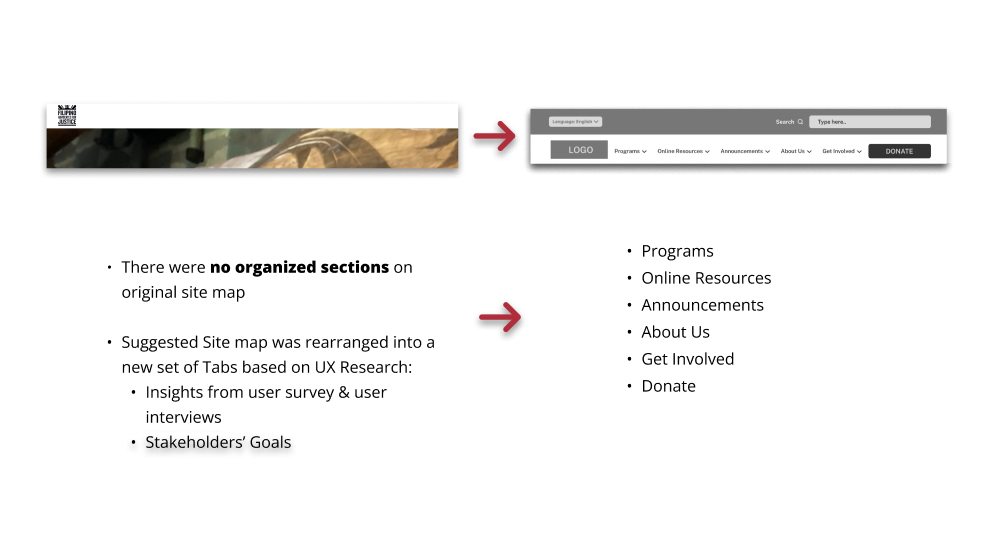
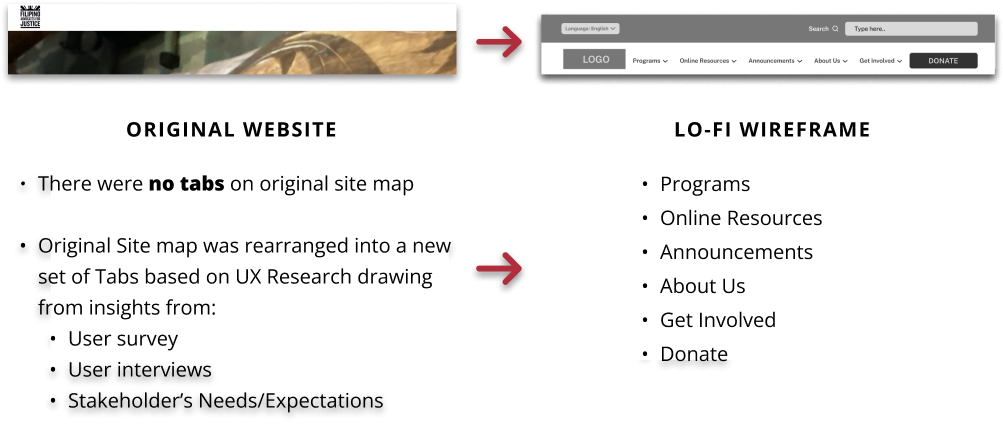
updated 1st case study

diff --git a/faj-case-study.html b/faj-case-study.html
@@ -250,31 +250,62 @@
 </section>
 
 <section class="my-6 content">
-  <h3 class="has-text-weight-bold is-size-2 has-text-black-bis">Usability Testing</h3>
-  <h4 class="has-text-weight-bold my-4">2 rounds of Usability Testing (5 participants each) to validate the User Flow of Users finding Mental Health Resources on FAJ’s Website</h4>
-<p>*Conducted by the UX Program Design Team (Panda Ninjas)</p>
+  <h3 class="has-text-weight-bold is-size-2 has-text-black-bis">Site Map Revisited</h3>
+  <p class="my-4">After recruiting new UX Designers, we picked up from where the 1st Design Team last left off in the Summer of 2023.
+    <br><br>Before revisiting the wireframes, we had to have a discussion with stakeholders to confirm the Site Map</p>
+<p class="has-text-weight-bold">Turns out, not everyone in the organization knew which programs were still active and functioning. Further investigation with staff members led to the new, approved Site Map</p>
 
 
-  <img src="./assets/media/faj-cs/Usability Testing 1.png" style="display:block;margin:0 auto;width:100%;" alt="Site Map Slide">
-  <p><strong>Results:</strong> Both users of FAJ’s website & stakeholder were satisfied with the new layout and UI Style Guide of the High-Fidelity Prototype. Wordpress Implementation and website launch was scheduled in June 2023.</p>
+  <img src="./assets/media/faj-cs/Updated & Approved Site Map.png" style="display:block;margin:0 auto;width:100%;" alt="Upgraded Site Map Slide">
 
 </section>
 
 <section class="my-6 content">
-  <h3 class="has-text-weight-bold is-size-2 has-text-black-bis">Usability Testing Revisited</h3>
-  <h4 class="has-text-weight-bold my-4">After recruiting new UX Designers, we picked up from where the 1st Design Team last left off in the Summer of 2023.</h4>
+  <h3 class="has-text-weight-bold is-size-2 has-text-black-bis">New UI Style Guide based on the Philippine National Flower:
+    The Sampaguita</h3>
+  <h4 class="my-4">The UI/Visual Designer of our team came up with the new color palette of the website. <br><br>These colors felt closer to FAJ’s current pivot towards themes of Mental Health and Meditation while still keeping true to our culture.</h4>
 
 
 
-  <img src="./assets/media/faj-cs/Usability Testing 2.png" style="display:block;margin:0 auto;width:100%;" alt="Site Map Slide">
-  <p><strong>Results:</strong> Both users of FAJ’s website & stakeholder were satisfied with the new layout and UI Style Guide of the High-Fidelity Prototype. Wordpress Implementation and website launch was scheduled in June 2023.</p>
+  <img src="./assets/media/faj-cs/Sampaguita UI Color Palette.png" style="display:block;margin:0 auto;width:100%;" alt="Sampaguita UI Color Palette">
 
 </section>
+
+<section class="my-6 content">
+  <h2 class="has-text-weight-bold is-size-2 has-text-black-bis">Validating Revamped Designs with Usability Testing, Once Again</h2>
+  <div class="columns">
+  
+      <div class="column">
+        <p class="my-4">We had to validate the new user flows by conducting: 
+        </p>  
+
+        <ul>
+          <li>1 round of Usability Testing, 5 participants each</li>
+          <li>All ranging from different needs from interest in Youth programs, Tenant Rights Resources, to Immigration Resources) to gauge the ease of use of the Iterated site map & wireframes.</li>
+        </ul>
+          
+          <p>*Conducted by the 2nd Design Team</p>
+
+
+        
+        </div>
+  
+  
+  
+        <div class="column">
+          <img src="./assets/media/faj-cs/FAJ Hi-Fi Prototype.gif" style="display:block;margin:0 auto;width:100%;" alt="FAJ Hi-FI Prototype GIF">
+        </div>
+        
+      </div>
+      <h4 class="has-text-weight-bold mt-6">Results</h4>
+<p>Both users of FAJ’s website & stakeholder were satisfied with the new site map layout and UI Style Guide of the High-Fidelity Prototype. Wordpress Implementation and website launch was scheduled in June 2023.</p>
+  
+    </section>
 
 <section class="my-6 content">
   <h2 class="has-text-weight-bold is-size-2 has-text-black-bis">High-Fidelity Wireframes</h2>
   <div class="columns">
-  
+
       <div class="column mt-6">
             <h4 class="has-text-weight-bold mb-4">My wireframe contributions were:</h4>
             <ul>
@@ -288,7 +319,6 @@
         </div>
   
   
-  
         <div class="column">
           <img src="./assets/media/faj-cs/FAJ Hi-Fi Wireframes.png" alt="User Interviewee Quote">
         </div>
@@ -297,7 +327,7 @@
 
     <section class="my-6" id="hi-fi">
       <div class="container px-4 py-5">
-        <h2 class="has-text-weight-bold is-size-2">Before and After Screenshots</h2>
+        <h2 class="has-text-weight-bold has-text-black-bis is-size-2">Before and After Screenshots</h2>
       <div>
         <img src="./assets/media/faj-cs/FAJ Before and After.png" style="display:block;margin:0 auto;width:100%;" alt="Site Map Slide">
 
@@ -308,7 +338,7 @@
 
 <section class="my-6">
   <div class="container px-4 py-5">
-    <h2 class="has-text-weight-bold is-size-2">Takeaways</h2>
+    <h2 class="has-text-weight-bold has-text-black-bis is-size-2">Takeaways</h2>
   <div>
   <div class="g-4 py-5">
     <div class="content is-normal">
@@ -338,7 +368,7 @@
 
 <section class="my-6">
 <div class="px-4 my-5 has-text-centered">
-    <h2 class="has-text-weight-bold is-size-2">Developed Website</h2>
+    <h2 class="has-text-weight-bold has-text-black-bis is-size-2">Developed Website</h2>
     <div class="container px-5">
         <img src="./assets/media/faj-cs/FAJ Hifi.png" class="img-fluid border rounded-3 shadow-lg mb-4" alt="Example image" width="700" height="500" loading="lazy">
       </div>
